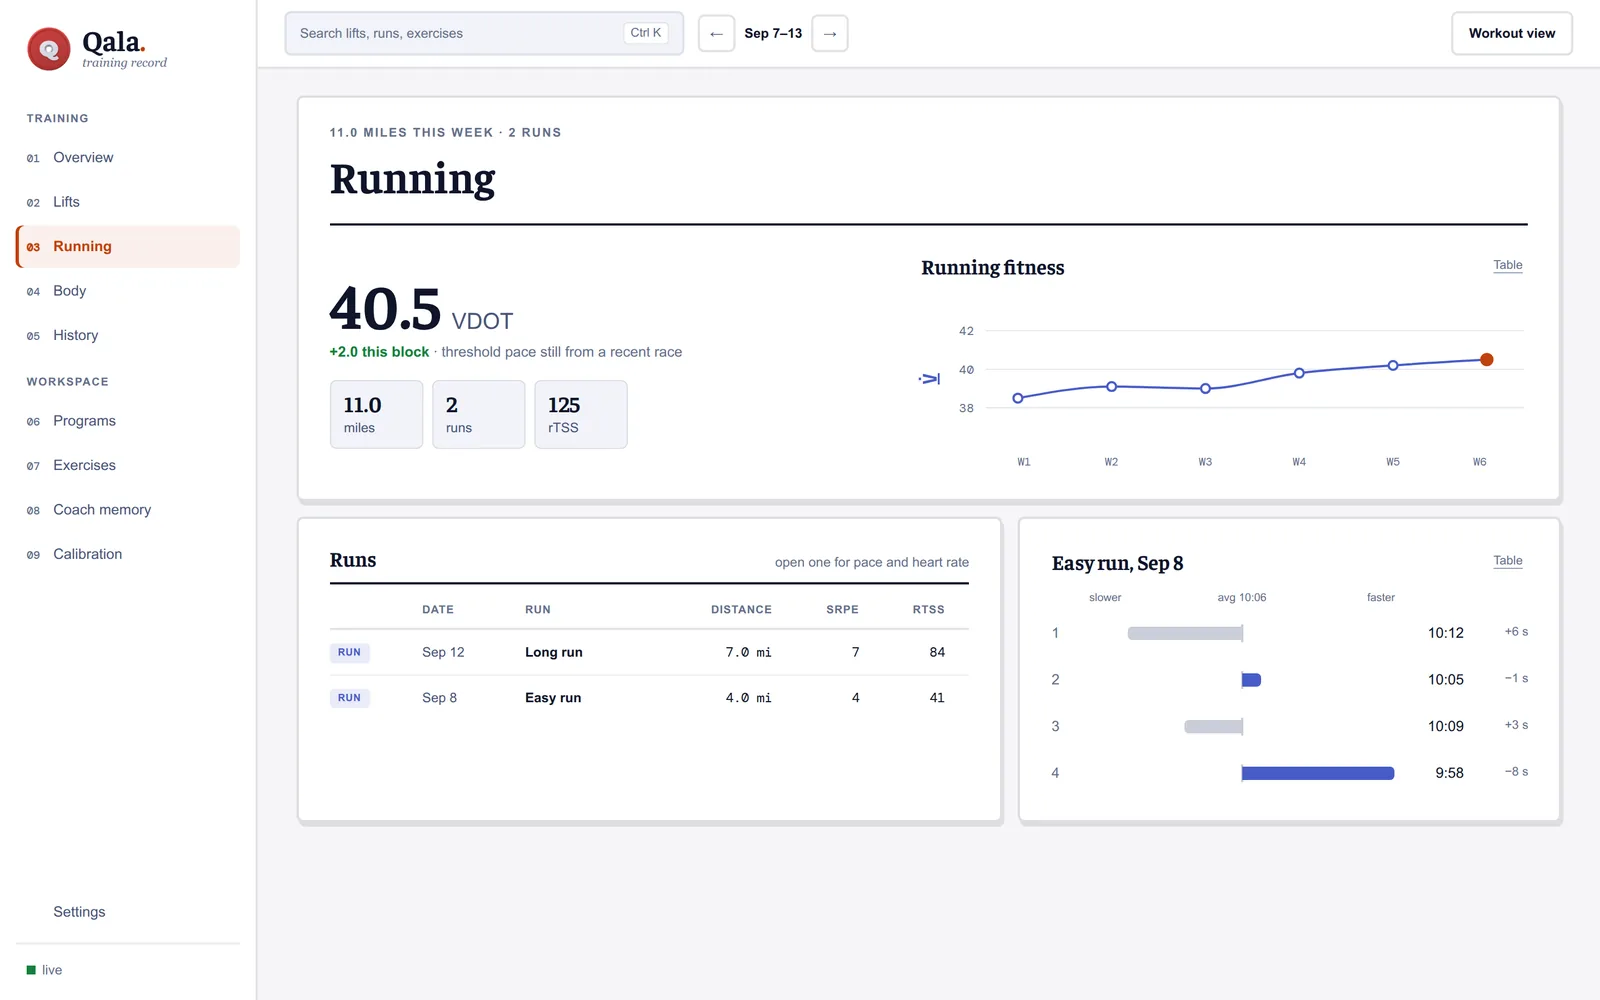
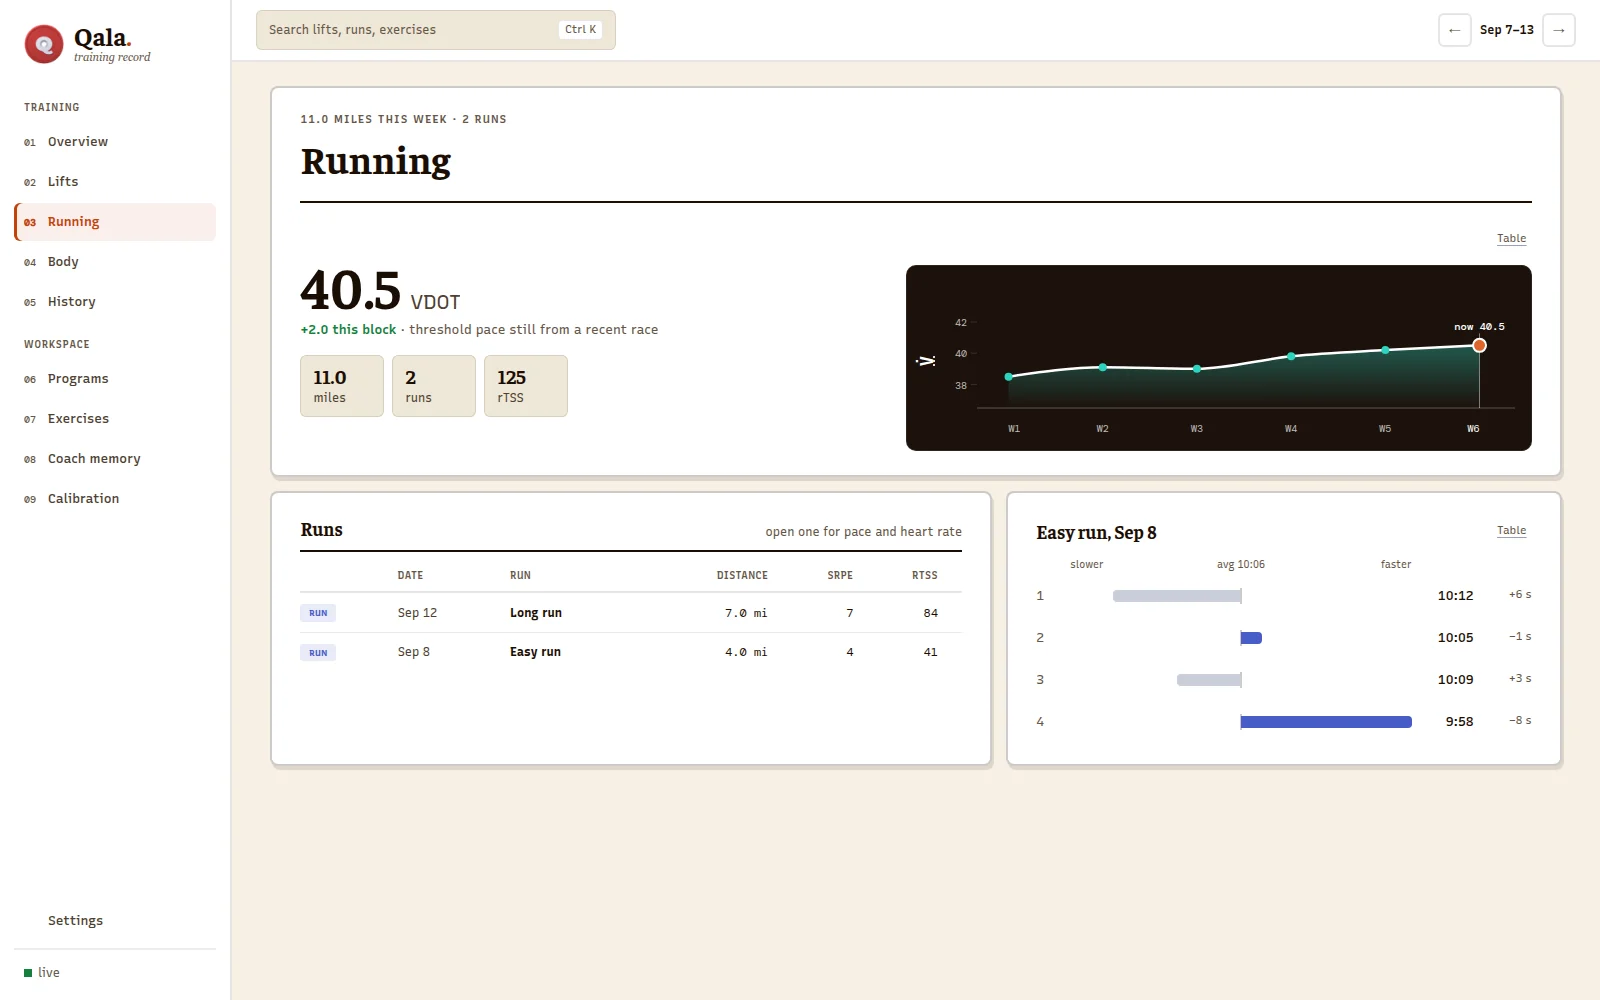
Replace the six landing captures and write their alt text from what they show

diff --git a/apps/web/src/shared/landing/LandingEvidence.tsx b/apps/web/src/shared/landing/LandingEvidence.tsx
@@ -120,18 +120,21 @@ const TABS: Tab[] = [
     ],
     phone: {
       img: phoneWorkout,
-      tone: "light",
+      tone: "dark",
       alt:
-        "Qala workout screen on an Android phone: set 3 of 3 on Back Squat " +
-        "at 245 lb, a coach suggestion to drop to 240 because quads are " +
-        "sore, an RPE entry, and a Rest 3:45 note before the next lift.",
+        "Qala workout screen on an Android phone, on a dark brown frosted " +
+        "background: a GZCLP day 4 header, Deadlift at 205 lb with a loaded " +
+        "barbell and plate shown per side, a progress rail down the left, " +
+        "three warm-up sets, the open set 1 at 205 lb for 3 reps, and a " +
+        "Log set 1 button.",
     },
     desktop: {
       img: desktopLifts,
       alt:
-        "Qala desktop Lifts: +2.5% average e1RM this block, with per-lift " +
-        "e1RM charts for squat, bench, deadlift and press against the " +
-        "block's reference 1RM.",
+        "Qala desktop Lifts page on sample data: average e1RM up 2.5% this " +
+        "block, a gain bar for each of the four lifts, and dark e1RM " +
+        "charts for squat and bench, each rising to its latest value, 283 " +
+        "and 245 lb.",
     },
   },
   {
@@ -152,16 +155,17 @@ const TABS: Tab[] = [
       img: phoneRun,
       tone: "dark",
       alt:
-        "Qala run start screen on an Android phone: a GPS route preview, " +
-        "GPS status, a cue interval, an easy-run note, and a Start run " +
-        "button.",
+        "Qala live run screen on an Android phone, on a dark brown frosted " +
+        "background: an easy run with 0.75 miles recorded in 4:46 at a " +
+        "6:22 pace (6:23 average), a pause button, and a Finish run button " +
+        "above the tab bar.",
     },
     desktop: {
       img: desktopRunning,
       alt:
-        "Qala desktop Running: a 40.5 VDOT with a six-week fitness line, " +
-        "weekly miles, run count and rTSS tiles, a runs table, and last " +
-        "run's pace splits.",
+        "Qala desktop Running page on sample data: a 40.5 VDOT with a " +
+        "six-week trend chart, tiles for 11.0 miles, 2 runs and 125 rTSS, " +
+        "a table of two runs, and pace splits for an easy run.",
     },
   },
   {
@@ -182,18 +186,21 @@ const TABS: Tab[] = [
     ],
     phone: {
       img: phoneCoach,
-      tone: "light",
+      tone: "dark",
       alt:
-        "Qala Coach screen on an Android phone: a suggested squat change " +
-        "from 245×4 to 240×4 with the engine and coach values side by side, " +
-        "the reasoning, and the clamped limits shown.",
+        "Qala Coach screen on an Android phone: a dark header with the " +
+        "status Runs on your server and two context chips, a cream sheet " +
+        "with an intro card, two suggested questions (Why this weight " +
+        "today? and Should I change anything?), and a message box with a " +
+        "Send button.",
     },
     desktop: {
       img: desktopMemory,
       alt:
-        "Qala desktop Coach memory: proposals waiting, the profile the " +
-        "coach reads, and a coach log showing clamped and discarded " +
-        "adjustments with the limits.",
+        "Qala desktop Coach memory page on sample data: two proposed facts " +
+        "with Accept and Reject buttons, the profile the coach reads, and a " +
+        "coach log with one clamped and one discarded suggestion, plus the " +
+        "limits, weight −10% to +2.5% and sets −2 to +1.",
     },
   },
 ];
